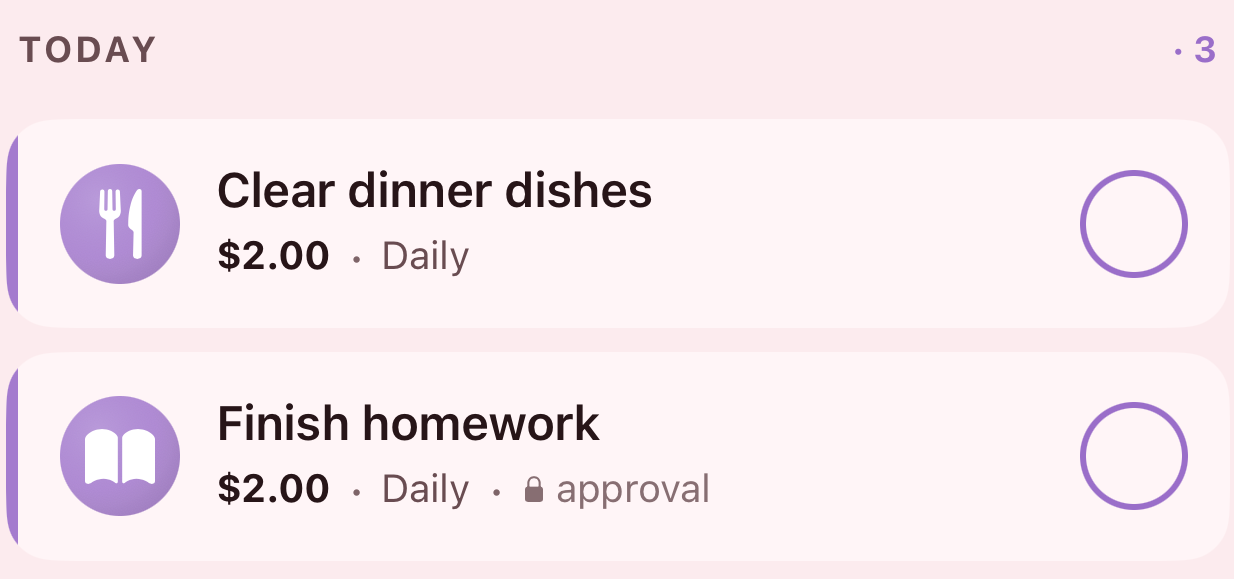
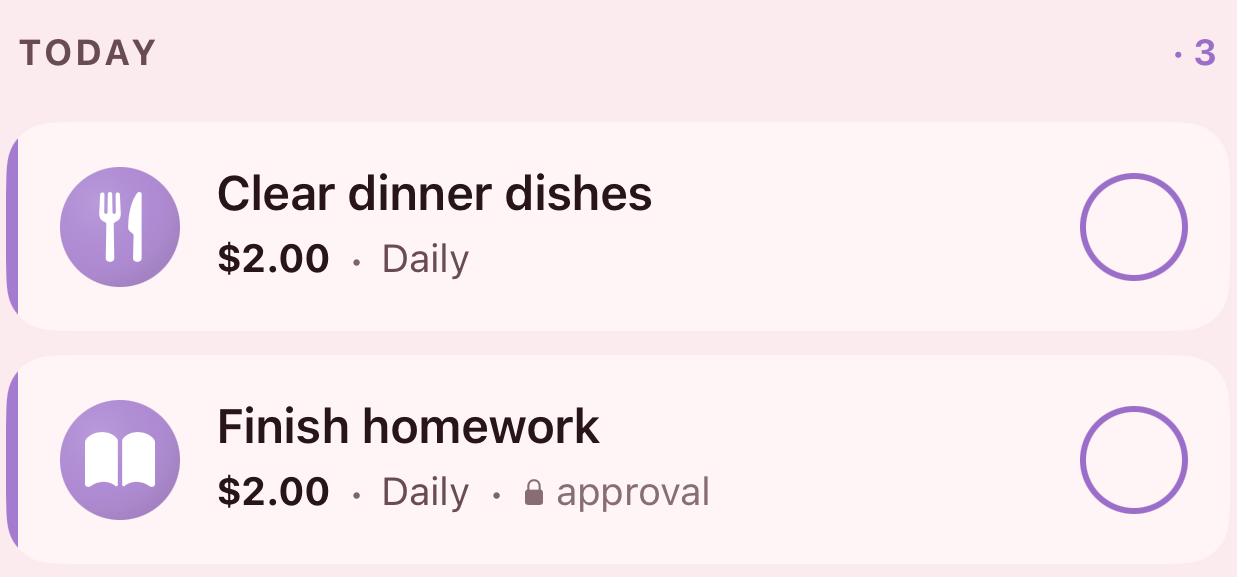
Move to build 50 captures: one family on top, Kofi below
The top row now follows a single household. The kid screen is Theo's
Goals tab and the parent screen is Finn, Theo and Wren, which in build 50
carries its approvals inline and fills the phone. The Maya, Liam and
Olive family is gone from the site. Kofi's page, with a sticker book
waiting for a yes, takes the approvals detail.

Build 50 changed how goals work: saved money is held apart from money to
spend, and allowance can auto-save. The goals detail is recut from that
screen and its copy no longer says the bar tracks the balance.

diff --git a/index.html b/index.html
@@ -216,11 +216,11 @@
 
   <div class="shots">
     <figure>
-      <img src="assets/shot-kid.png" alt="A child's screen in Pig Pal: Amara, with her photo, a $27.50 balance, a savings goal at 69 percent, and today's chores.">
-      <figcaption>What a kid sees: their money, their streak, today's chores.</figcaption>
+      <img src="assets/shot-kid.png" alt="A child's Goals screen in Pig Pal: Theo, with his photo, a $48.00 balance, $18.00 to spend, a New skateboard goal at 60 percent saving $4.00 each Sunday, and rewards in progress.">
+      <figcaption>What a kid sees: money to spend, what they're saving for, rewards to earn.</figcaption>
     </figure>
     <figure>
-      <img src="assets/shot-parent.png" alt="The parent overview in Pig Pal: Maya, Liam and Olive with their photos and balances, three approvals waiting, and quick plus and minus buttons.">
+      <img src="assets/shot-parent.png" alt="The parent overview in Pig Pal: three requests waiting at the top — Finish homework for Wren, a $4.00 sticker book Theo wants to buy, Make bed for Finn — above cards for Finn, Theo and Wren with their photos, balances and quick plus and minus buttons.">
       <figcaption>What a parent sees: everyone at a glance, approvals waiting.</figcaption>
     </figure>
     <figure class="wide">
@@ -254,26 +254,27 @@
 
     <div class="details">
       <div class="detail">
-        <h3>A target, and a bar that fills</h3>
-        <p>A kid picks something worth saving for and puts money toward it. The bar moves as the
-          balance does, so the waiting has a shape you can point at.</p>
-        <img src="assets/detail-goal.png" width="1234" height="266"
-          alt="A savings goal in Pig Pal: New scooter, $16.00 of $23.00, a progress bar filled to 69 percent.">
+        <h3>Money set aside, and a bar that fills</h3>
+        <p>A kid picks something worth saving for and puts money toward it — or lets part of
+          their allowance save itself every week. Saved money stays apart from money to spend,
+          so the skateboard fund doesn't quietly turn into sweets.</p>
+        <img src="assets/detail-goal.png" width="1251" height="750"
+          alt="Theo's savings in Pig Pal: $18.00 money to spend with $30.00 saved in goals, and a New skateboard goal at $30.00 of $50.00, 60 percent, auto-saving $4.00 each Sunday.">
       </div>
       <div class="detail">
         <h3>Today's list, with a price on it</h3>
         <p>Every chore carries what it pays and how often it comes round. Tick one off and it's
           done — unless it's marked <em>approval</em>, which holds it until a parent looks.</p>
-        <img src="assets/detail-chores.png" width="1234" height="579"
+        <img src="assets/detail-chores.png" width="1237" height="577"
           alt="A child's chore list in Pig Pal: Clear dinner dishes $2.00 daily, and Finish homework $2.00 daily needing approval, each with a circle to tick.">
       </div>
       <div class="detail">
         <h3>Nothing moves until you say so</h3>
-        <p>Ticked chores — and anything a kid wants to spend on — land in <em>To review</em> on a
-          parent's phone. One tap pays it, the other sends it back. Allowance is the one
-          exception: pick an amount and a day and it arrives on its own.</p>
-        <img src="assets/detail-approve.png" width="1285" height="809"
-          alt="The To review queue in Pig Pal: Make bed $1.00 daily for Finn, and a $4.00 sticker book Wren wants to buy, each with a cross and a tick button.">
+        <p>Ticked chores — and anything a kid wants to spend on — wait for a parent. One tap says
+          yes and the money moves; the other sends it back. Allowance is the one exception: pick
+          an amount and a day and it arrives on its own.</p>
+        <img src="assets/detail-approve.png" width="1251" height="841"
+          alt="Kofi's page on a parent's phone in Pig Pal: his photo and a $48.00 balance, and under Waiting for you, a $4.00 sticker book at the bookstore he wants to buy, with a cross and a tick button.">
       </div>
     </div>
 
